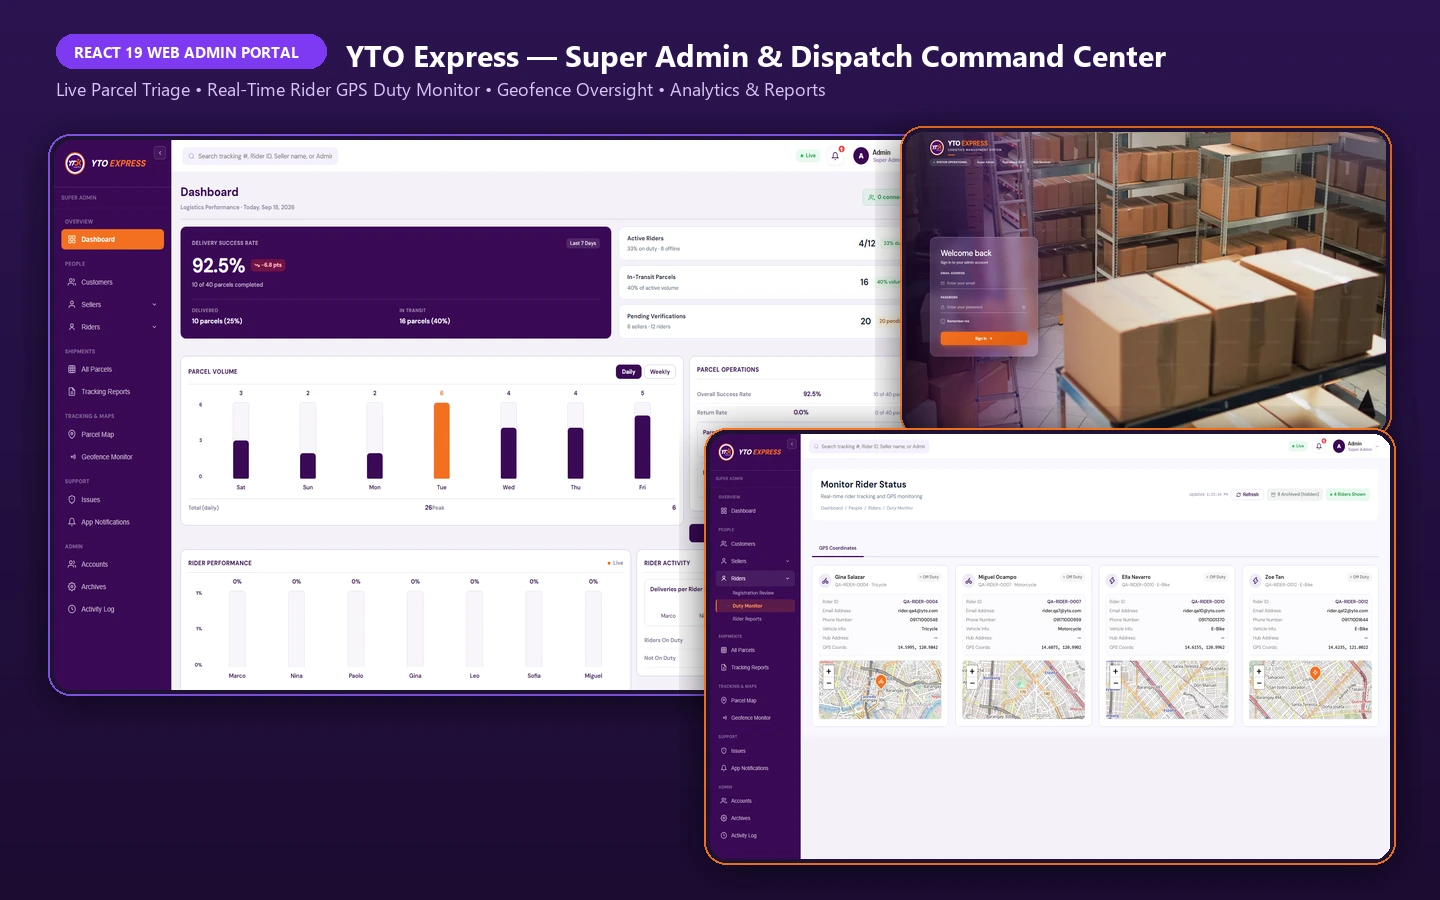
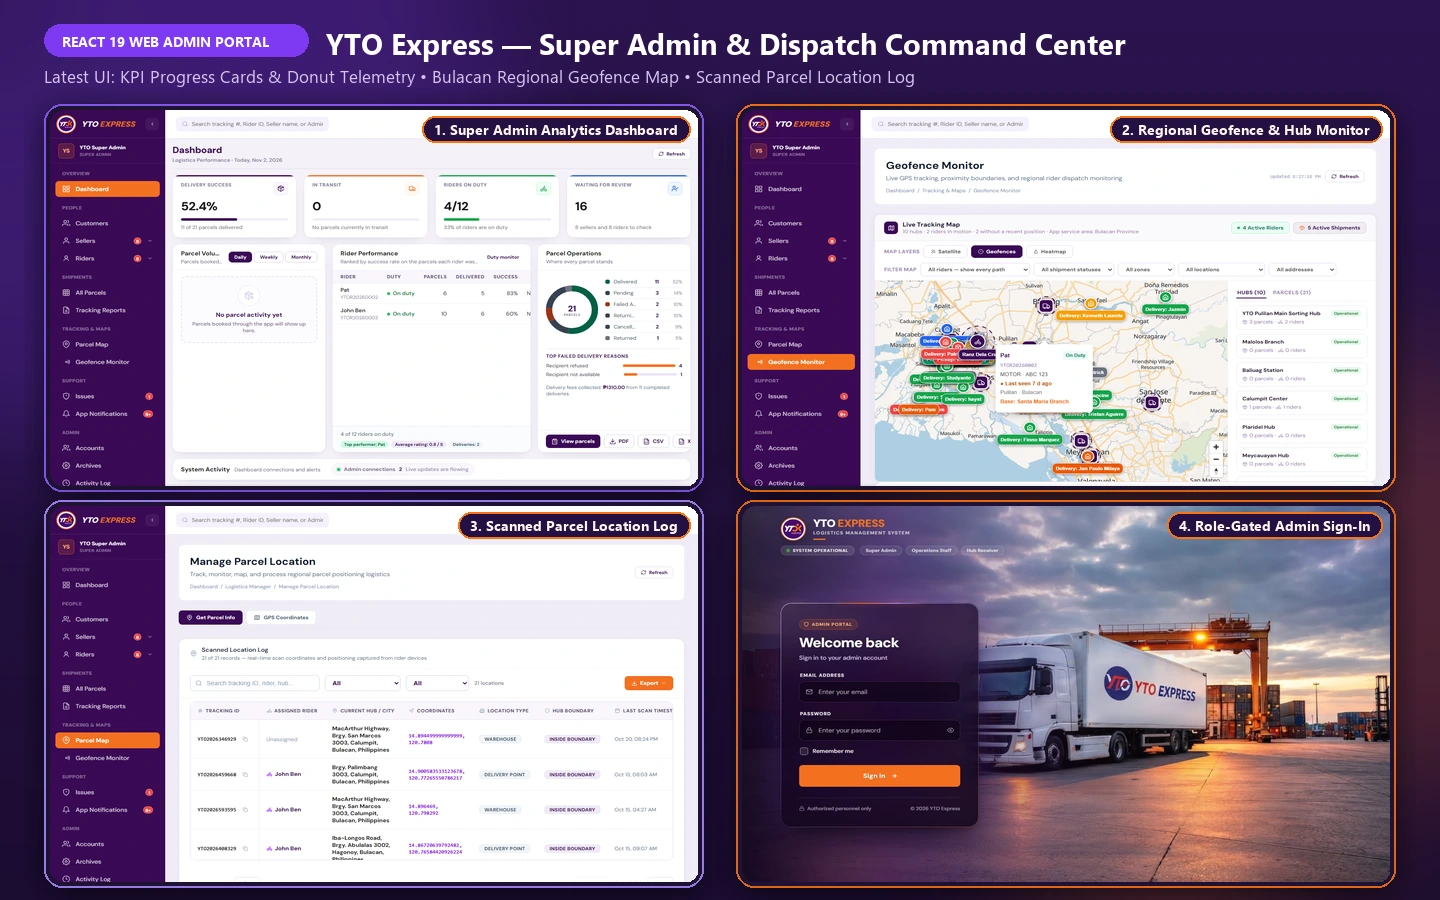
fix(work): replace legacy YTO Express web portal screenshots with latest November 2026 UI showcase

diff --git a/index.html b/index.html
@@ -138,13 +138,13 @@
                   <h4 class="details-heading">System Components &amp; Architecture</h4>
                   <ul class="feature-list">
                     <li>
-                      <strong>React 19 Admin Dashboard:</strong> Real-time analytics displaying delivery success rates, daily/weekly parcel volume charts, pending verifications, and CSV/PDF operational reporting.
+                      <strong>Super Admin Analytics Dashboard:</strong> Real-time KPI progress cards, rider performance rankings, parcel operations donut telemetry, top failed delivery reason breakdowns, and PDF/CSV/XLSX reporting.
                     </li>
                     <li>
-                      <strong>Live Rider &amp; Geofence Monitoring:</strong> Interactive GPS coordinate tracking and hub geofence oversight for on-duty tricycle, motorcycle, and e-bike couriers.
+                      <strong>Regional Geofence &amp; Hub Monitor:</strong> Interactive Bulacan tracking map overseeing 10 sorting hubs and branches with Satellite/Geofence/Heatmap layers, live rider callout cards, and proximity boundary alerts.
                     </li>
                     <li>
-                      <strong>Backend REST API:</strong> Node.js and Express server with MongoDB, implementing role-based JWT authentication, OTP verification, and real-time synchronization with the Android courier app.
+                      <strong>Scanned Parcel Location Log &amp; Bridge API:</strong> Live coordinate intake table verifying warehouse vs. delivery-point scans (`INSIDE BOUNDARY`), backed by Node.js, Express, MongoDB, and SSE real-time updates.
                     </li>
                   </ul>
                 </div>
@@ -152,9 +152,9 @@
                 <div class="project-roles">
                   <span class="roles-label">Admin Modules:</span>
                   <div class="role-badges">
-                    <span class="role-badge">Hub Inventory Triage</span>
-                    <span class="role-badge">Live Rider GPS Duty Monitor</span>
-                    <span class="role-badge">Seller &amp; Issue Management</span>
+                    <span class="role-badge">Analytics &amp; Donut Telemetry</span>
+                    <span class="role-badge">10-Hub Geofence Monitor</span>
+                    <span class="role-badge">Scanned Location Log</span>
                   </div>
                 </div>
 
